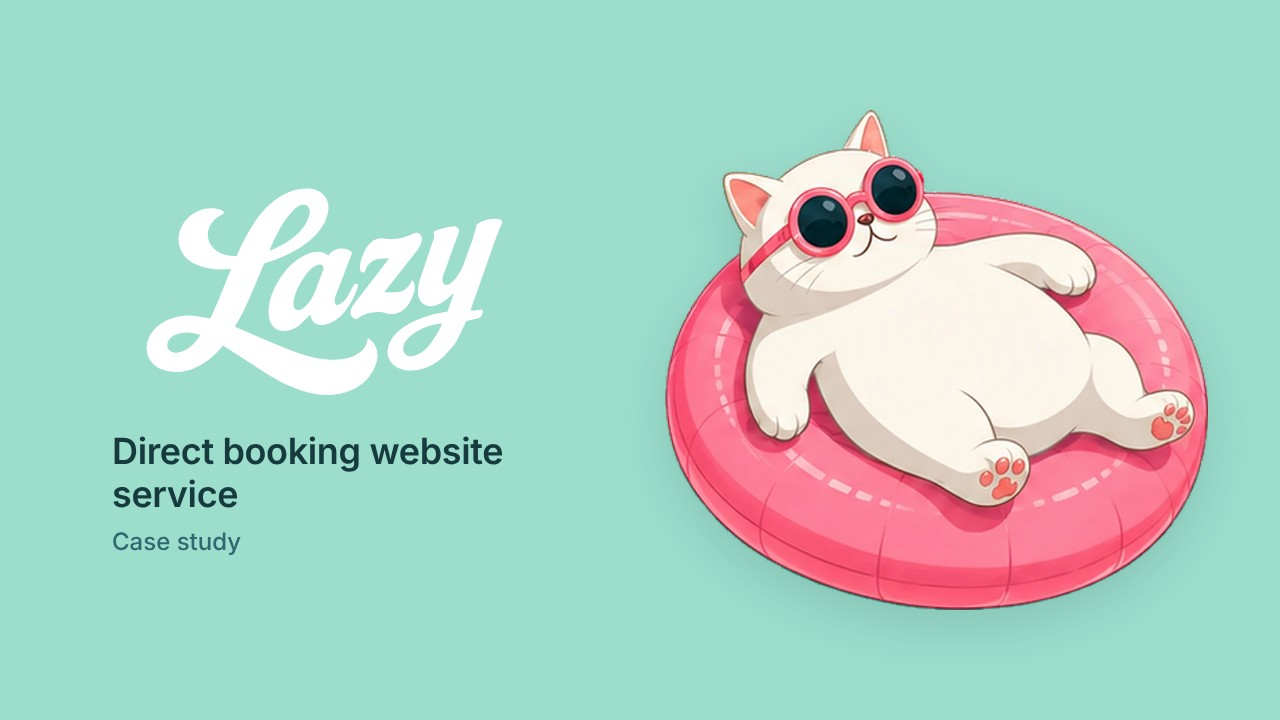
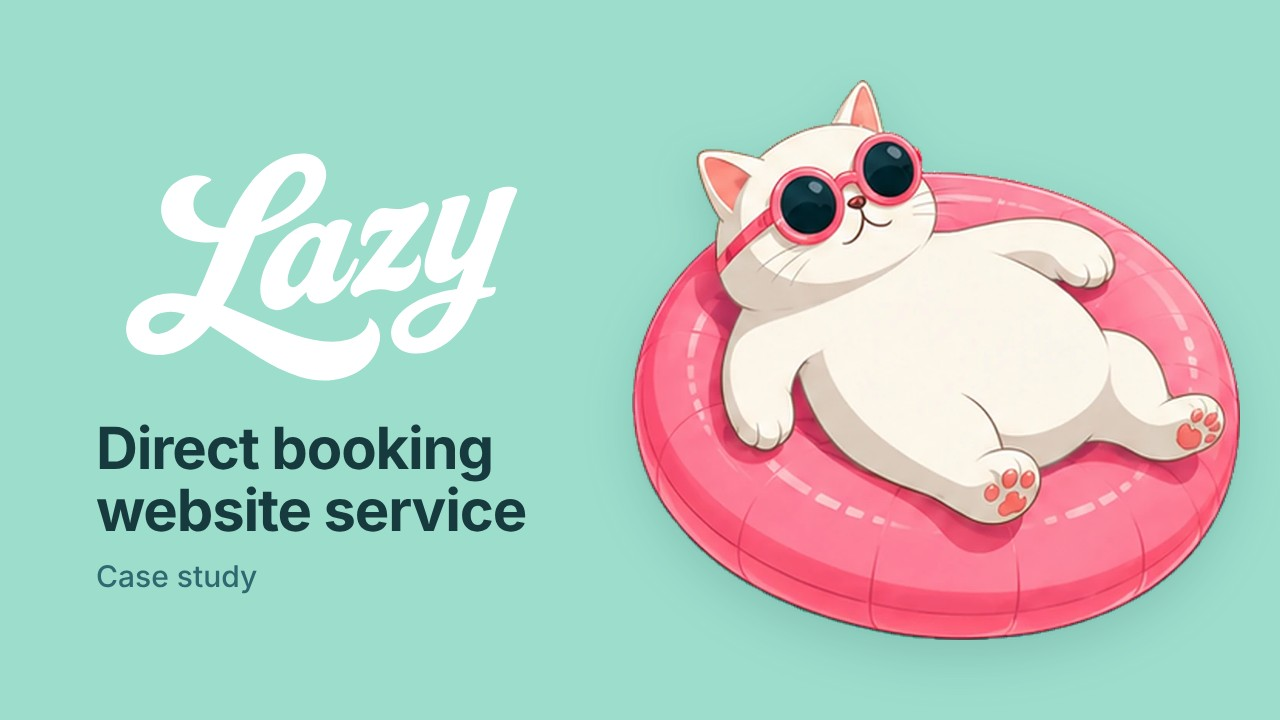
Lazy: delete the four service cards; bolder video cover
Claude-Session: https://claude.ai/code/session_015jbDQdEyGUk2PwjauFtcTs

diff --git a/site/lazy.html b/site/lazy.html
@@ -49,7 +49,7 @@
 </div>
 <nav class="case-links" aria-label="Open the work"><a href="https://lazy.vacations" target="_blank" rel="noopener">Open Website</a><a href="pleasant-street.html">Pleasant Street Use Case</a></nav>
 <button class="video-open" type="button" aria-haspopup="dialog" aria-controls="case-video-dialog">
-<img class="video-open-poster" src="assets/lazy/lazy-case-study-cover.jpg?v=2" alt="" width="1280" height="720"/>
+<img class="video-open-poster" src="assets/lazy/lazy-case-study-cover.jpg?v=3" alt="" width="1280" height="720"/>
 <span class="video-open-label"><span class="video-open-play" aria-hidden="true"><svg viewBox="0 0 24 24"><path d="M8 5.5v13l11-6.5z"/></svg></span><span class="video-open-text"><strong>Watch the case study</strong><span>Narrated · 1:07</span></span></span>
 </button>
 <dl class="case-facts work-case-facts" aria-label="Case study summary">
@@ -60,7 +60,7 @@
 
 </div>
 
-<div class="lzsvc" aria-label="The Lazy service, in four parts"><div><h3 class="lzsvc-t">Design</h3><p>We build your website from your Airbnb listing, using your photos and property details.</p><ul><li>Design adapted for desktop and mobile</li><li>Property descriptions, galleries, and amenities</li><li>Local guide, maps, and guest reviews</li></ul></div><div><h3 class="lzsvc-t">Editor</h3><p>Update your content and change your website’s appearance yourself.</p><ul><li>Edit text, photos, and reviews</li><li>Change colors, fonts, and layouts</li><li>Preview changes before publishing</li></ul></div><div><h3 class="lzsvc-t">Booking</h3><p>Choose how guests book: through Airbnb, your booking platform, or an inquiry.</p><ul><li>Connect Hospitable, Guesty, Lodgify, or OwnerRez</li><li>Display your booking widget and calendar</li><li>Receive inquiries from guests</li></ul></div><div><h3 class="lzsvc-t">Support</h3><p>We host your website and maintain the services behind it.</p><ul><li>Hosting and technical maintenance</li><li>Editor, forms, and AI assistant service</li><li>First month free, then $50/month</li></ul></div></div>
+
 <ul class="case-tool-logos" role="list" aria-label="Project software">
   <li><span role="img" aria-label="Claude Code" style="--tool-logo: url(assets/lazy/claude-logo.svg); --tool-ratio: 1"></span></li>
   <li><span role="img" aria-label="Codex" style="--tool-logo: url(assets/tool-logos/codex.svg); --tool-ratio: 1"></span></li>
@@ -108,7 +108,7 @@
 </section>
 </div>
 </main>
-<dialog class="blueprint-dialog video-dialog" id="case-video-dialog" aria-labelledby="case-video-title"><p class="media-viewer-title" id="case-video-title">Lazy: the case study in one minute</p><button aria-label="Close video" class="painpoints-close video-close" type="button"><svg aria-hidden="true" viewbox="0 0 24 24"><path d="M6 6L18 18M18 6L6 18"></path></svg></button><div class="blueprint-dialog-content video-dialog-content"><video class="case-video" controls preload="metadata" playsinline poster="assets/lazy/lazy-case-study-cover.jpg?v=2" src="assets/lazy/lazy-case-study.mp4?v=1"></video></div></dialog>
+<dialog class="blueprint-dialog video-dialog" id="case-video-dialog" aria-labelledby="case-video-title"><p class="media-viewer-title" id="case-video-title">Lazy: the case study in one minute</p><button aria-label="Close video" class="painpoints-close video-close" type="button"><svg aria-hidden="true" viewbox="0 0 24 24"><path d="M6 6L18 18M18 6L6 18"></path></svg></button><div class="blueprint-dialog-content video-dialog-content"><video class="case-video" controls preload="metadata" playsinline poster="assets/lazy/lazy-case-study-cover.jpg?v=3" src="assets/lazy/lazy-case-study.mp4?v=1"></video></div></dialog>
 <script src="rancourt.js?v=20261123-view" defer></script>
 <script src="portfolio-overviews.js?v=20261123-view" defer></script>
 <script src="brand-flask.js?v=20261118-b1" defer></script>
